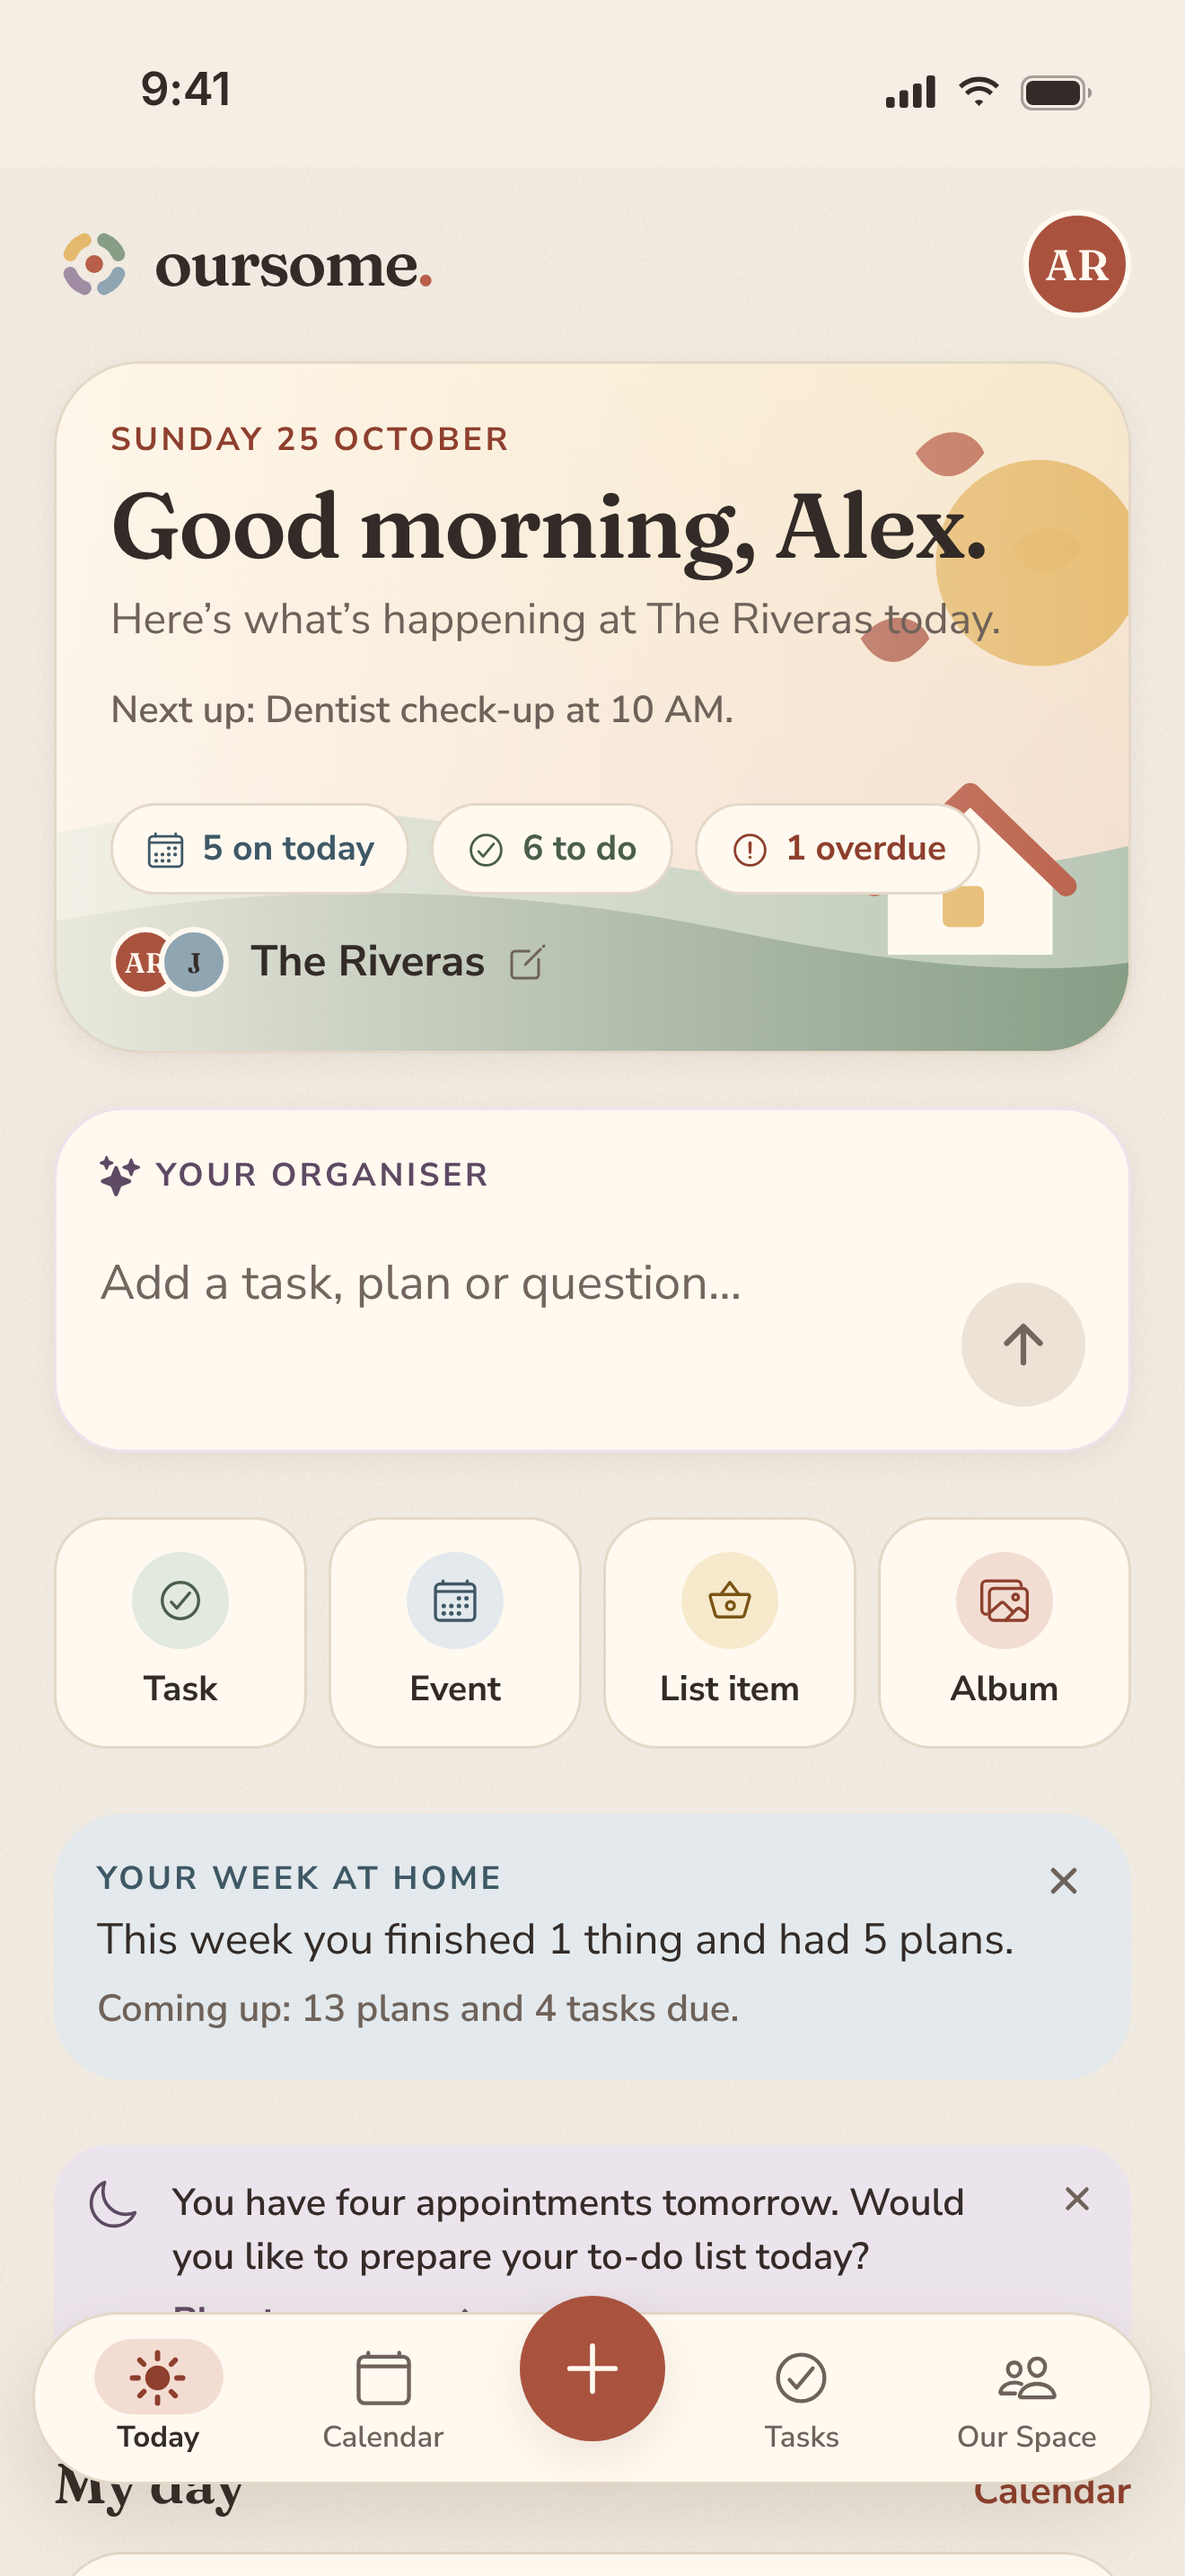
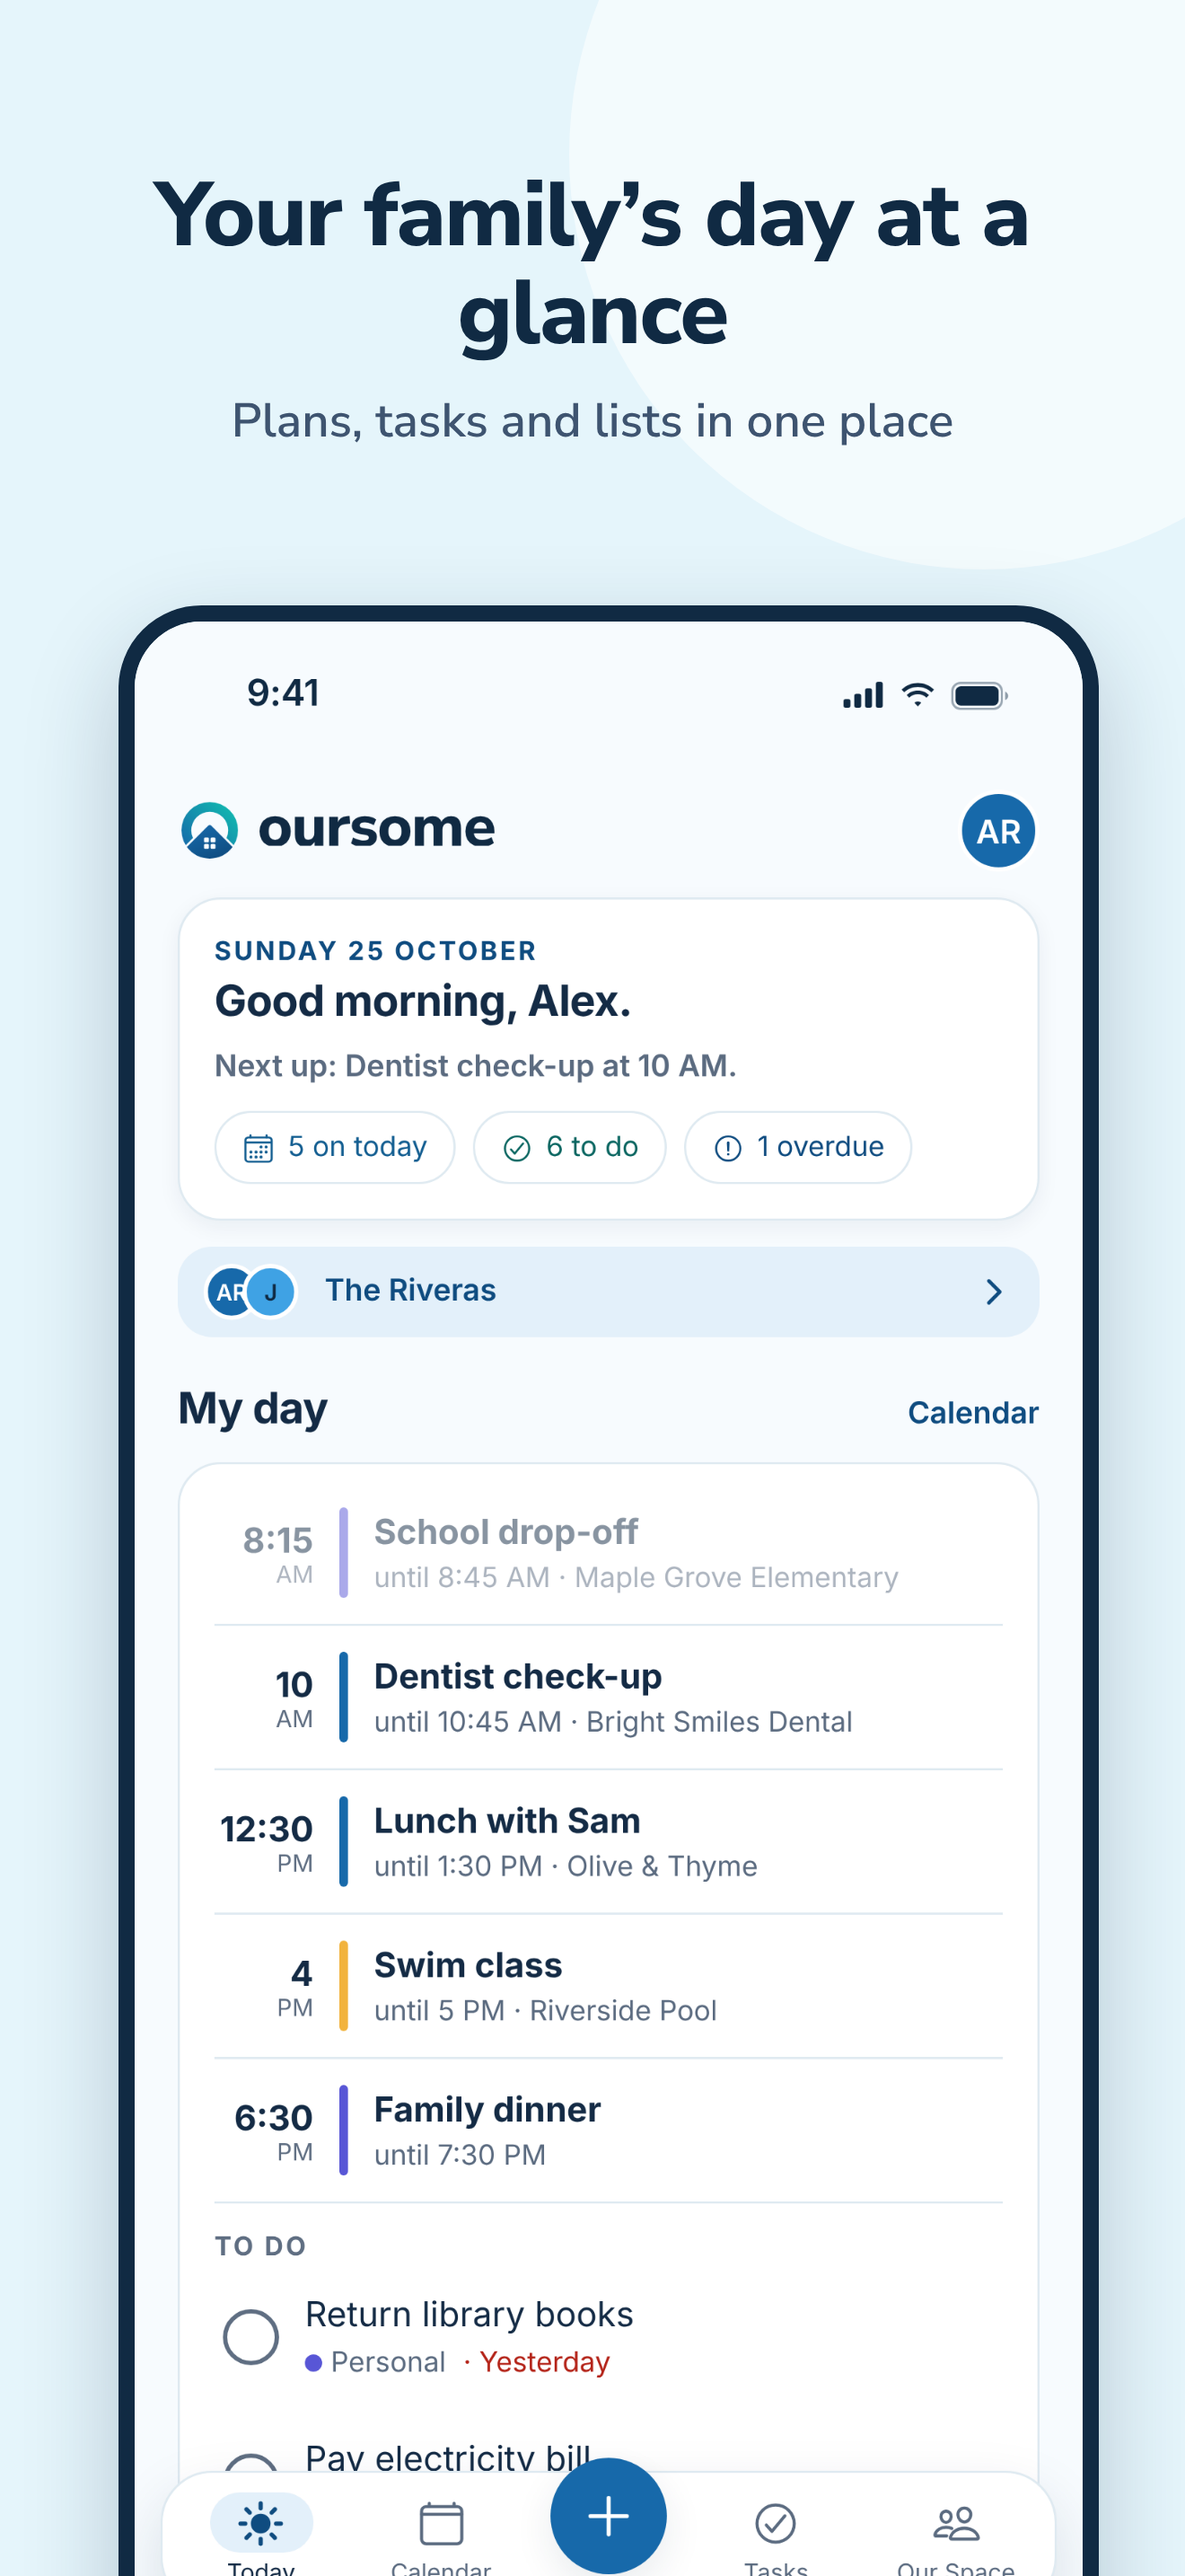
Store screenshots and graphics for 1.1.0 in the new design
Captioned screenshots at the sizes the stores accept: App Store 1206 × 2622
(6.3-inch) and 1320 × 2868 (6.9-inch), Google Play 1080 × 1920, plus the
plain screens, a new Play feature graphic (1024 × 500) and 512 icon.

Claude-Session: https://claude.ai/code/session_01NWBfeNp2wByioKfBPiZ3Gp

diff --git a/docs/app-store/README.md b/docs/app-store/README.md
@@ -147,7 +147,7 @@ Leave "Sign-in required" unticked, since there is no demo account to give.
 
 Upload the PNGs in [`screenshots-6.3in/`](screenshots-6.3in) (1206 × 2622) to the **iPhone** slot. App Store Connect's iPhone slot now accepts only 1206 × 2622 or 1179 × 2556, as the Research Tracker found. [`screenshots/`](screenshots) holds the same set at 1320 × 2868 in case the 6.9-inch slot is offered. All are RGB PNGs without transparency, as Apple requires.
 
-They were taken from the app at iPhone sizes with the notch and home-bar areas emulated (top 62 pt, bottom 34 pt), using made-up sample content and illustrated photos, with a 9:41 status bar drawn in. Order: Home, album reader, calendar, tasks, shopping list, Our Space, album editor. iPad isn't needed because `supportsTablet` is `false`.
+Version 1.1.0 set (new blue design): each shows the app at iPhone size (notch and home bar emulated, 9:41 status bar) inside a phone frame with a short caption, using made-up sample content and illustrated photos. Order: Home, calendar, tasks, shopping list, album, album editor, Our Space. iPad isn't needed because `supportsTablet` is `false`.
 
 To regenerate them after design changes, ask Claude: the scripts drive the built website in Chromium at those sizes.
 

diff --git a/docs/play-store/README.md b/docs/play-store/README.md
@@ -69,7 +69,7 @@ When Play Console shows **Apply for production** (after the 14 days), answer its
 | Short description (80 max) | Shared family calendar, chores, shopping lists and photo albums. No ads. |
 | App icon | `icon-512.png` (512 × 512) |
 | Feature graphic | `feature-graphic-1024x500.png` |
-| Phone screenshots | `screenshots-captioned/1-home.png` … `7-space.png` (1080 × 1920, with captions) |
+| Phone screenshots | `screenshots-captioned/android-1-home.png` … `android-7-space.png` (1080 × 1920, with captions, new design) |
 | Category | Lifestyle |
 | Contact email | oursomeapp@outlook.com |
 | Website | https://oursome.org |
@@ -124,7 +124,7 @@ EASY TO START
 Oursome is free. Made for parents, couples, flatmates and busy households who want less time organising and more time together.
 ```
 
-**Screenshots:** upload the captioned set in `screenshots-captioned/` (1 to 7, in order) in place of the plain ones. Each one names the feature it shows.
+**Screenshots:** upload the captioned set in `screenshots-captioned/` (android-1 to android-7, in order) in place of the old ones. Each one names the feature it shows. `screenshots/` holds the same screens without captions.
 
 ## App content answers (Policy → App content)
 
